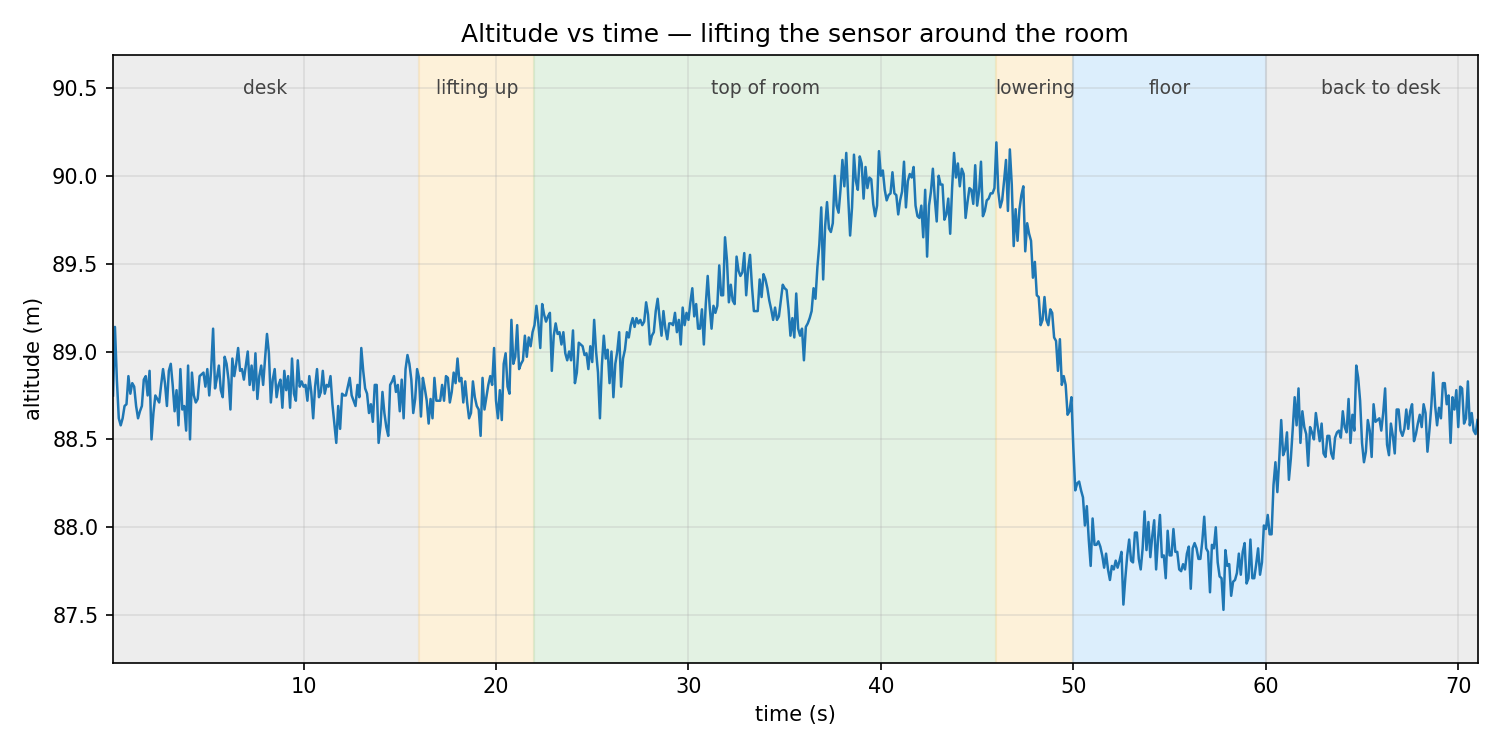
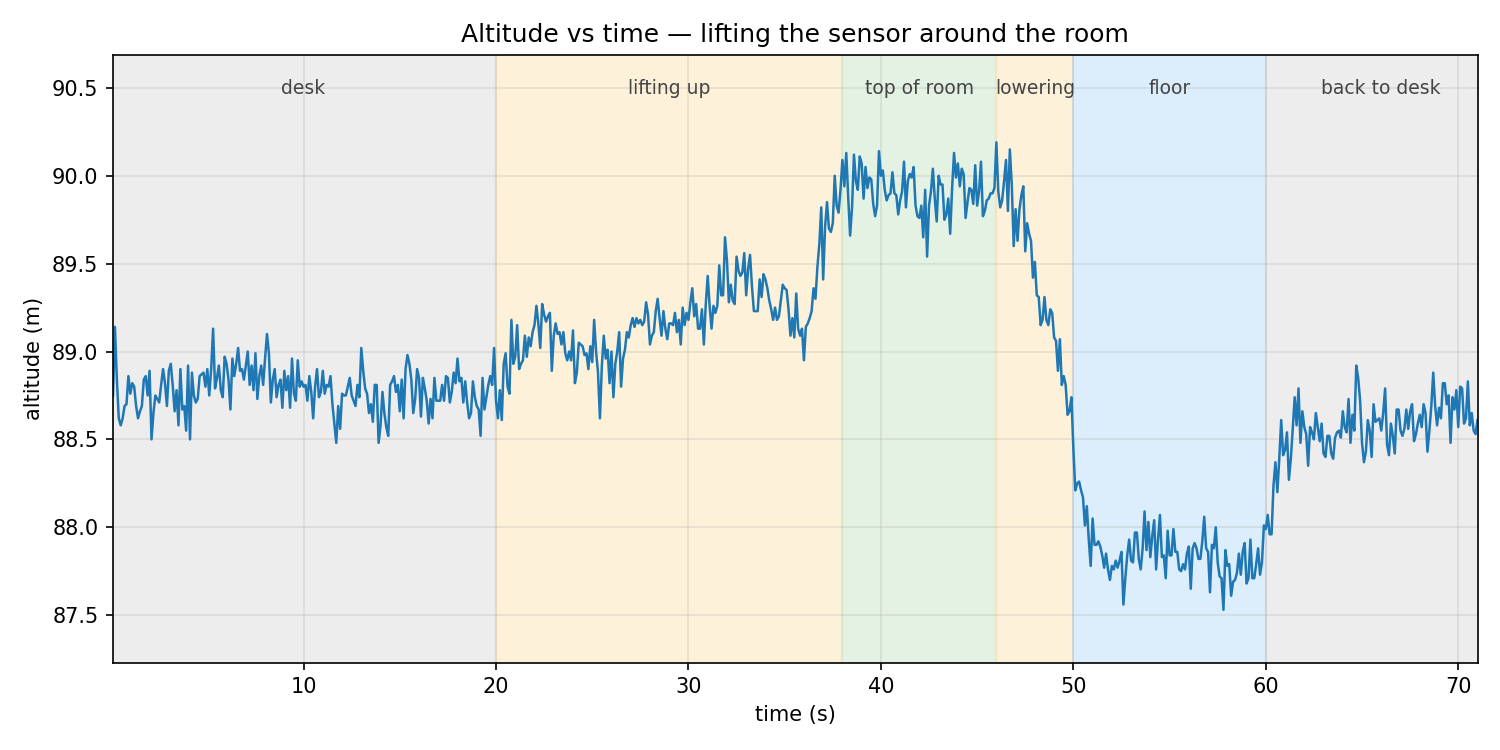
style avionics blog post photos and tighten prose
Wrap post images in the landing-page window component (titlebar with
control dots + caption statusbar) at 40% width, with a wide variant
for the altitude data viz. Remove bold text, em dashes, and the
exam-yesterday line. Shift the altitude plot's "lifting up" phase to
20-38s and regenerate the PNG.

Changed region(s): [[0.276, 0.0613, 0.644, 0.8893], [0.1533, 0.092, 0.2147, 0.1227]]

diff --git a/blog/posts/avionics-computer.html b/blog/posts/avionics-computer.html
@@ -41,7 +41,7 @@
 
                 <h3>Intro</h3>
                 <p>
-                It's 2:30am. I have a quiz tomorrow morning. I had an exam yesterday. I just finished my first real hardware project. I've messed with arduinos before, but only the kind of stuff where you blink an LED. Nothing with actual sensors.
+                It's 2:30am. I have a quiz tomorrow morning. I just finished my first real hardware project. I've messed with arduinos before, but only the kind of stuff where you blink an LED. Nothing with actual sensors.
                 </p>
                 <p>
                 This one is different. As a data scientist, I've always wanted to build my own little breadboard data-collecting computer, and tonight I finally pulled it off. And it's totally awesome: an avionics computer.
@@ -49,9 +49,20 @@
                 <p>
                 Right now all it does is measure humidity, pressure, and altitude, so I'm not sure "avionics" is really fair yet. But this is just phase 1 of many. By the end I want something worthy of a model rocket.
                 </p>
-                <p>
-                <img src="../photos/close_up_computer.png" alt="The Arduino Uno wired up to a microSD card module on a breadboard" style="max-width: 100%; height: auto; display: block; margin: 18px auto;" />
-                </p>
+                <div class="window post-photo">
+                    <div class="window-titlebar">
+                        <span class="window-controls">
+                            <span class="dot dot-close"></span>
+                            <span class="dot dot-min"></span>
+                            <span class="dot dot-max"></span>
+                        </span>
+                        <span class="window-title">CLOSE_UP.PNG</span>
+                    </div>
+                    <div class="window-body">
+                        <img src="../photos/close_up_computer.png" alt="The Arduino Uno wired up to a microSD card module on a breadboard" />
+                    </div>
+                    <div class="window-statusbar">BREADBOARD // V1.0</div>
+                </div>
 
                 <h3>What's Next</h3>
                 <p>
@@ -70,29 +81,51 @@
                 <p>
                 I'll keep the 0 readers of this forsaken blog updated.
                 </p>
-                <p>
-                <img src="../photos/v1_computer.png" alt="The full workspace: laptop running Arduino IDE, breadboard, Arduino, and parts case" style="max-width: 100%; height: auto; display: block; margin: 18px auto;" />
-                </p>
+                <div class="window post-photo">
+                    <div class="window-titlebar">
+                        <span class="window-controls">
+                            <span class="dot dot-close"></span>
+                            <span class="dot dot-min"></span>
+                            <span class="dot dot-max"></span>
+                        </span>
+                        <span class="window-title">V1_COMPUTER.PNG</span>
+                    </div>
+                    <div class="window-body">
+                        <img src="../photos/v1_computer.png" alt="The full workspace: laptop running Arduino IDE, breadboard, Arduino, and parts case" />
+                    </div>
+                    <div class="window-statusbar">WORKBENCH // V1.0</div>
+                </div>
 
                 <h3>Parts List</h3>
                 <p>
                 Here is everything that went into v1:
                 </p>
                 <ul>
-                    <li><b>Arduino Uno R3</b> — the microcontroller, the brain of the operation</li>
-                    <li><b>BME280 module</b> — pressure / temperature / humidity sensor (I2C)</li>
-                    <li><b>MPU6050 / GY-521 module</b> — 6-DoF IMU (3-axis accel + 3-axis gyro), not yet wired in because the header pins need to be soldered</li>
-                    <li><b>WWZMDiB microSD module</b> — SPI card reader, this is what makes the data persistent</li>
-                    <li><b>32GB SanDisk microSDHC card</b> — stores the CSV logs</li>
-                    <li><b>1 breadboard</b> — 400-point half size</li>
-                    <li><b>Jumper wire kit</b> — assorted lengths and ends (male-to-male, male-to-female, female-to-female)</li>
-                    <li><b>USB-B to USB-C cable</b> — Uno to MacBook for programming and tethered power</li>
-                    <li><b>USB-C to DC 9V PD cable</b> — eventually for portable power from a USB-C PD battery bank</li>
-                    <li><b>microSD to USB adapter</b> — for reading the logs on my laptop</li>
+                    <li>Arduino Uno R3: the microcontroller, the brain of the operation</li>
+                    <li>BME280 module: pressure / temperature / humidity sensor (I2C)</li>
+                    <li>MPU6050 / GY-521 module: 6-DoF IMU (3-axis accel + 3-axis gyro), not yet wired in because the header pins need to be soldered</li>
+                    <li>WWZMDiB microSD module: SPI card reader, this is what makes the data persistent</li>
+                    <li>32GB SanDisk microSDHC card: stores the CSV logs</li>
+                    <li>1 breadboard: 400-point half size</li>
+                    <li>Jumper wire kit: assorted lengths and ends (male-to-male, male-to-female, female-to-female)</li>
+                    <li>USB-B to USB-C cable: Uno to MacBook for programming and tethered power</li>
+                    <li>USB-C to DC 9V PD cable: eventually for portable power from a USB-C PD battery bank</li>
+                    <li>microSD to USB adapter: for reading the logs on my laptop</li>
                 </ul>
-                <p>
-                <img src="../photos/toolbox.png" alt="The parts organizer holding breadboards, jumper wires, and modules" style="max-width: 100%; height: auto; display: block; margin: 18px auto;" />
-                </p>
+                <div class="window post-photo">
+                    <div class="window-titlebar">
+                        <span class="window-controls">
+                            <span class="dot dot-close"></span>
+                            <span class="dot dot-min"></span>
+                            <span class="dot dot-max"></span>
+                        </span>
+                        <span class="window-title">TOOLBOX.PNG</span>
+                    </div>
+                    <div class="window-body">
+                        <img src="../photos/toolbox.png" alt="The parts organizer holding breadboards, jumper wires, and modules" />
+                    </div>
+                    <div class="window-statusbar">PARTS_TRAY // V1.0</div>
+                </div>
 
                 <h3>Test from My Room</h3>
                 <p>
@@ -107,11 +140,22 @@
                 <p>
                 Then I pulled the microSD card, opened the CSV on my laptop, and plotted altitude vs. time:
                 </p>
+                <div class="window post-photo post-photo-wide">
+                    <div class="window-titlebar">
+                        <span class="window-controls">
+                            <span class="dot dot-close"></span>
+                            <span class="dot dot-min"></span>
+                            <span class="dot dot-max"></span>
+                        </span>
+                        <span class="window-title">LOG0001_ALTITUDE.PNG</span>
+                    </div>
+                    <div class="window-body">
+                        <img src="../photos/log0001_altitude.png" alt="Altitude vs time plot showing the four phases of the test" />
+                    </div>
+                    <div class="window-statusbar">ALTITUDE // LOG_0001</div>
+                </div>
                 <p>
-                <img src="../photos/log0001_altitude.png" alt="Altitude vs time plot showing the four phases of the test" style="max-width: 100%; height: auto; display: block; margin: 18px auto;" />
-                </p>
-                <p>
-                The shape matches the choreography exactly — flat on the desk, rising during the lift, holding higher at the top of the room, dropping for the floor segment, and climbing back at the end. The full swing was <b>about 2.66 meters peak-to-trough</b>, which is roughly the difference between my overhead reach and the floor. So I think the sensor is being honest.
+                The shape matches the choreography exactly: flat on the desk, rising during the lift, holding higher at the top of the room, dropping for the floor segment, and climbing back at the end. The full swing was about 2.66 meters peak-to-trough, which is roughly the difference between my overhead reach and the floor. So I think the sensor is being honest.
                 </p>
                 <p>
                 When it sat still on the desk, the altitude reading drifted by about 12 cm (one standard deviation). Compared to a 2.6-meter swing, that's a signal-to-noise ratio of about 13×. Good enough to see the real motion in the raw data without any filtering or smoothing. For something like an elevator ride, or a model rocket flight, the signal is going to dwarf the noise. But I would like to see what kind of tuning I can do with the sensors. 

diff --git a/style.css b/style.css
@@ -1479,3 +1479,23 @@ label {
   color: var(--accent-hover);
   text-decoration: underline;
 }
+
+.post-page .post-content .post-photo {
+  max-width: 40%;
+  margin: 18px auto 24px auto;
+}
+
+.post-page .post-content .post-photo .window-body {
+  padding: 0;
+}
+
+.post-page .post-content .post-photo img {
+  width: 100%;
+  height: auto;
+  display: block;
+  border: 1px solid var(--border);
+}
+
+.post-page .post-content .post-photo-wide {
+  max-width: 100%;
+}